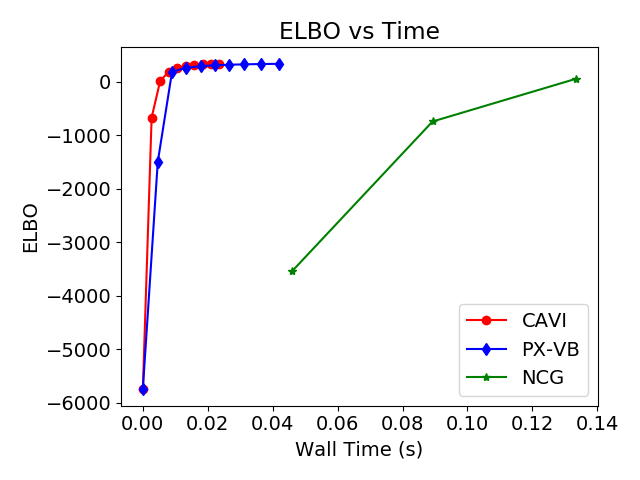
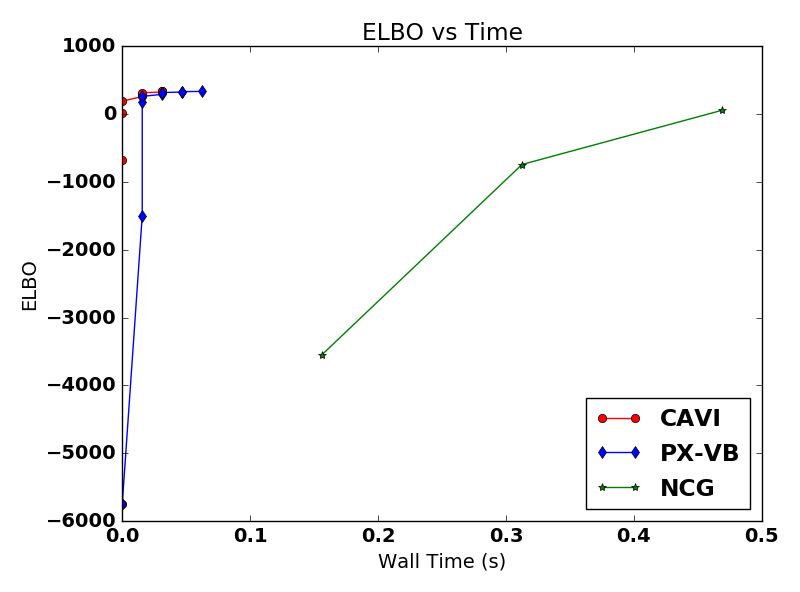
minor change to Probit (figures), worked on poster

diff --git a/poster/poster.tex b/poster/poster.tex
@@ -56,6 +56,9 @@
 %-----------------------------------------------------------
 
 \usepackage{graphicx}  % Required for including images
+\usepackage{booktabs} % Top and bottom rules for tables
+\usepackage{subcaption}
+\usepackage[font=normalsize,labelfont=bf]{caption}
 
 \usepackage{booktabs} % Top and bottom rules for tables
 
@@ -92,14 +95,13 @@
 %----------------------------------------------------------------------------------------
 
 \begin{alertblock}{Objectives}
-
-Lorem ipsum dolor sit amet, consectetur, nunc tellus pulvinar tortor, commodo eleifend risus arcu sed odio:
+Our aim is to evaluate the effectiveness of various optimization algorithms for approximate Bayesian inference. In particular, we were interested in examining:
 \begin{itemize}
-\item Mollis dignissim, magna augue tincidunt dolor, interdum vestibulum urna
-\item Sed aliquet luctus lectus, eget aliquet leo ullamcorper consequat. Vivamus eros sem, iaculis ut euismod non, sollicitudin vel orci.
-\item Nascetur ridiculus mus.  
-\item Euismod non erat. Nam ultricies pellentesque nunc, ultrices volutpat nisl ultrices a.
+\item {\bf coordinate ascent}, the standard method for variational inference;
+\item {\bf Newton conjugate trust region}, an accepted second-order optimization method; 
+\item and {\bf parameter expanded variational inference}, a data-augementation method described in Qi and Jaakkola 2006. 
 \end{itemize}
+
 
 \end{alertblock}
 
@@ -107,7 +109,7 @@ Lorem ipsum dolor sit amet, consectetur, nunc tellus pulvinar tortor, commodo el
 %	INTRODUCTION
 %----------------------------------------------------------------------------------------
 
-\begin{block}{Introduction}
+\begin{block}{Motivation}
 
 Lorem ipsum dolor \textbf{sit amet}, consectetur adipiscing elit. Sed commodo molestie porta. Sed ultrices scelerisque sapien ac commodo. Donec ut volutpat elit. Sed laoreet accumsan mattis. Integer sapien tellus, auctor ac blandit eget, sollicitudin vitae lorem. Praesent dictum tempor pulvinar. Suspendisse potenti. Sed tincidunt varius ipsum, et porta nulla suscipit et. Etiam congue bibendum felis, ac dictum augue cursus a. \textbf{Donec} magna eros, iaculis sit amet placerat quis, laoreet id est. In ut orci purus, interdum ornare nibh. Pellentesque pulvinar, nibh ac malesuada accumsan, urna nunc convallis tortor, ac vehicula nulla tellus eget nulla. Nullam lectus tortor, \textit{consequat tempor hendrerit} quis, vestibulum in diam. Maecenas sed diam augue.
 
@@ -130,143 +132,196 @@ This statement requires citation \cite{Smith:2012qr}.
 
 \begin{column}{\twocolwid} % Begin a column which is two columns wide (column 2)
 
-\begin{columns}[t,totalwidth=\twocolwid] % Split up the two columns wide column
+%\begin{columns}[t,totalwidth=\twocolwid] % Split up the two columns wide column
+%
+%\begin{column}{\onecolwid}\vspace{-.6in} % The first column within column 2 (column 2.1)
+%
+%%----------------------------------------------------------------------------------------
+%%	MATERIALS
+%%----------------------------------------------------------------------------------------
+%
+%\begin{block}{Materials}
+%
+%The following materials were required to complete the research:
+%
+%\begin{itemize}
+%\item El burrita
+%\item Eu facilisis est tempus quis
+%\item Duis porta consequat lorem
+%\item Eu facilisis est tempus quis
+%\end{itemize}
+%
+%The materials were prepared according to the steps outlined below:
+%
+%\begin{enumerate}
+%\item Curabitur pellentesque dignissim
+%\item Eu facilisis est tempus quis
+%\item Duis porta consequat lorem
+%\item Curabitur pellentesque dignissim
+%\end{enumerate}
+%
+%\end{block}
+%
+%%----------------------------------------------------------------------------------------
+%
+%\end{column} % End of column 2.1
+%
+%\begin{column}{\onecolwid}\vspace{-.6in} % The second column within column 2 (column 2.2)
+%
+%%----------------------------------------------------------------------------------------
+%%	METHODS
+%%----------------------------------------------------------------------------------------
+%
+%\begin{block}{Methods}
+%
+%Lorem ipsum dolor \textbf{sit amet}, consectetur adipiscing elit. Sed laoreet accumsan mattis. Integer sapien tellus, auctor ac blandit eget, sollicitudin vitae lorem. Praesent dictum tempor pulvinar. Suspendisse potenti. Sed tincidunt varius ipsum, et porta nulla suscipit et. Etiam congue bibendum felis, ac dictum augue cursus a. \textbf{Donec} magna eros, iaculis sit amet placerat quis, laoreet id est. In ut orci purus, interdum ornare nibh. Pellentesque pulvinar, nibh ac malesuada accumsan, urna nunc convallis tortor, ac vehicula nulla tellus eget nulla. Nullam lectus tortor, \textit{consequat tempor hendrerit} quis, vestibulum in diam. Maecenas sed diam augue.
+%
+%\end{block}
+%
+%%----------------------------------------------------------------------------------------
+%
+%\end{column} % End of column 2.2
 
-\begin{column}{\onecolwid}\vspace{-.6in} % The first column within column 2 (column 2.1)
+%\end{columns} % End of the split of column 2 - any content after this will now take up 2 columns width
 
-%----------------------------------------------------------------------------------------
-%	MATERIALS
-%----------------------------------------------------------------------------------------
 
-\begin{block}{Materials}
+%------------------------------------
+% PROBIT REGRESSION
+%------------------------------------
+\begin{block}{Probit regression}
+Let $t_n, n=1, ..., N$ be binary random variables. In probit regression our model is
+\begin{align*}
+p(t | X, w) = \prod_{n=1}^N \Phi(x_n^Tw)
+\end{align*}
+where $\Phi$ is the standard normal c.d.f function. The $x_n$'s are fixed, and we place a normal prior on $w$. To do inference on $w$, we take a variational approach, optimizing over variational parameters to maximize the evidence lower bound. The results of CAVI, Newton-CG, and PX-VB are displayed below.   
 
-The following materials were required to complete the research:
+\begin{figure}[h]
+  \centering
+    \begin{subfigure}[t]{0.4\textwidth}
+        \includegraphics[width=\textwidth]{Probit_synth/CAVI_PX_convergence.png}
+        
+    \end{subfigure}
+          \begin{subfigure}[t]{0.4\textwidth}
+        \includegraphics[width=\textwidth]{Probit_synth/elbo_time.png}
+    \end{subfigure}
+    \caption{Convergence results for synthetic data. Number of data points was  $N=500$, dimension of $w$ was $D=20$. }
+\end{figure}
 
-\begin{itemize}
-\item Curabitur pellentesque dignissim
-\item Eu facilisis est tempus quis
-\item Duis porta consequat lorem
-\item Eu facilisis est tempus quis
-\end{itemize}
+\begin{figure}[h]
+        \begin{subfigure}[t]{0.4\textwidth}
+        \includegraphics[width=\textwidth]{Probit_real/CAVI_PX_convergence.png}
+    \end{subfigure}
+          \begin{subfigure}[t]{0.4\textwidth}
+        \includegraphics[width=\textwidth]{Probit_real/elbo_time.png}
+    \end{subfigure}
+    \caption{Convergence results for conducting variational inference on SPAM data (Efron and Hastie 2016). $N= 4601$ emails were examined with the binary dependent variable taken to be whether or not the email was SPAM. $D=57$ keyword predictors were used (e.g. prevalence of the word `'MONEY'', `'FREE'', etc). }
+\end{figure}
 
-The materials were prepared according to the steps outlined below:
+    
+  
 
-\begin{enumerate}
-\item Curabitur pellentesque dignissim
-\item Eu facilisis est tempus quis
-\item Duis porta consequat lorem
-\item Curabitur pellentesque dignissim
-\end{enumerate}
+
+
+
+
 
 \end{block}
 
-%----------------------------------------------------------------------------------------
 
-\end{column} % End of column 2.1
+%------------------------------------
+% Linear mixed effects model
+%------------------------------------
+\begin{block}{Linear mixed effects model}
 
-\begin{column}{\onecolwid}\vspace{-.6in} % The second column within column 2 (column 2.2)
 
-%----------------------------------------------------------------------------------------
-%	METHODS
-%----------------------------------------------------------------------------------------
-
-\begin{block}{Methods}
-
-Lorem ipsum dolor \textbf{sit amet}, consectetur adipiscing elit. Sed laoreet accumsan mattis. Integer sapien tellus, auctor ac blandit eget, sollicitudin vitae lorem. Praesent dictum tempor pulvinar. Suspendisse potenti. Sed tincidunt varius ipsum, et porta nulla suscipit et. Etiam congue bibendum felis, ac dictum augue cursus a. \textbf{Donec} magna eros, iaculis sit amet placerat quis, laoreet id est. In ut orci purus, interdum ornare nibh. Pellentesque pulvinar, nibh ac malesuada accumsan, urna nunc convallis tortor, ac vehicula nulla tellus eget nulla. Nullam lectus tortor, \textit{consequat tempor hendrerit} quis, vestibulum in diam. Maecenas sed diam augue.
 
 \end{block}
-
-%----------------------------------------------------------------------------------------
-
-\end{column} % End of column 2.2
-
-\end{columns} % End of the split of column 2 - any content after this will now take up 2 columns width
 
 
 %----------------------------------------------------------------------------------------
 %	IMPORTANT RESULT
-%----------------------------------------------------------------------------------------
-
+%%----------------------------------------------------------------------------------------
+%
 %\begin{alertblock}{Important Result}
-
+%
 %Lorem ipsum dolor \textbf{sit amet}, consectetur adipiscing elit. Sed commodo molestie porta. Sed ultrices scelerisque sapien ac commodo. Donec ut volutpat elit.
-
+%
 %\end{alertblock} 
 
 %----------------------------------------------------------------------------------------
 
-\begin{columns}[t,totalwidth=\twocolwid] % Split up the two columns wide column again
-
-\begin{column}{\onecolwid} % The first column within column 2 (column 2.1)
-
-%----------------------------------------------------------------------------------------
-%	MATHEMATICAL SECTION
-%----------------------------------------------------------------------------------------
-
-\begin{block}{Mathematical Section}
-
-Nam quis odio enim, in molestie libero. Vivamus cursus mi at nulla elementum sollicitudin. Nam quis odio enim, in molestie libero. Vivamus cursus mi at nulla elementum sollicitudin.
-  
-\begin{equation}
-E = mc^{2}
-\label{eqn:Einstein}
-\end{equation}
-
-Nam quis odio enim, in molestie libero. Vivamus cursus mi at nulla elementum sollicitudin. Nam quis odio enim, in molestie libero. Vivamus cursus mi at nulla elementum sollicitudin.
-
-\begin{equation}
-\cos^3 \theta =\frac{1}{4}\cos\theta+\frac{3}{4}\cos 3\theta
-\label{eq:refname}
-\end{equation}
-
-Nam quis odio enim, in molestie libero. Vivamus cursus mi at nulla elementum sollicitudin. Nam quis odio enim, in molestie libero. Vivamus cursus mi at nulla elementum sollicitudin.
-
-\begin{equation}
-\kappa =\frac{\xi}{E_{\mathrm{max}}} %\mathbb{ZNR}
-\end{equation}
-
-\end{block}
-
-%----------------------------------------------------------------------------------------
-
-\end{column} % End of column 2.1
-
-\begin{column}{\onecolwid} % The second column within column 2 (column 2.2)
-
-%----------------------------------------------------------------------------------------
-%	RESULTS
-%----------------------------------------------------------------------------------------
-
-\begin{block}{Results}
-
-\begin{figure}
-\includegraphics[width=0.8\linewidth]{placeholder.jpg}
-\caption{Figure caption}
-\end{figure}
-
-Nunc tempus venenatis facilisis. Curabitur suscipit consequat eros non porttitor. Sed a massa dolor, id ornare enim:
-
-\begin{table}
-\vspace{2ex}
-\begin{tabular}{l l l}
-\toprule
-\textbf{Treatments} & \textbf{Response 1} & \textbf{Response 2}\\
-\midrule
-Treatment 1 & 0.0003262 & 0.562 \\
-Treatment 2 & 0.0015681 & 0.910 \\
-Treatment 3 & 0.0009271 & 0.296 \\
-\bottomrule
-\end{tabular}
-\caption{Table caption}
-\end{table}
-
-\end{block}
-
-%----------------------------------------------------------------------------------------
-
-\end{column} % End of column 2.2
-
-\end{columns} % End of the split of column 2
+%\begin{columns}[t,totalwidth=\twocolwid] % Split up the two columns wide column again
+%
+%\begin{column}{\onecolwid} % The first column within column 2 (column 2.1)
+%
+%%----------------------------------------------------------------------------------------
+%%	MATHEMATICAL SECTION
+%%----------------------------------------------------------------------------------------
+%
+%\begin{block}{Mathematical Section}
+%
+%Nam quis odio enim, in molestie libero. Vivamus cursus mi at nulla elementum sollicitudin. Nam quis odio enim, in molestie libero. Vivamus cursus mi at nulla elementum sollicitudin.
+%  
+%\begin{equation}
+%E = mc^{2}
+%\label{eqn:Einstein}
+%\end{equation}
+%
+%Nam quis odio enim, in molestie libero. Vivamus cursus mi at nulla elementum sollicitudin. Nam quis odio enim, in molestie libero. Vivamus cursus mi at nulla elementum sollicitudin.
+%
+%\begin{equation}
+%\cos^3 \theta =\frac{1}{4}\cos\theta+\frac{3}{4}\cos 3\theta
+%\label{eq:refname}
+%\end{equation}
+%
+%Nam quis odio enim, in molestie libero. Vivamus cursus mi at nulla elementum sollicitudin. Nam quis odio enim, in molestie libero. Vivamus cursus mi at nulla elementum sollicitudin.
+%
+%\begin{equation}
+%\kappa =\frac{\xi}{E_{\mathrm{max}}} %\mathbb{ZNR}
+%\end{equation}
+%
+%\end{block}
+%
+%%----------------------------------------------------------------------------------------
+%
+%\end{column} % End of column 2.1
+%
+%\begin{column}{\onecolwid} % The second column within column 2 (column 2.2)
+%
+%%----------------------------------------------------------------------------------------
+%%	RESULTS
+%%----------------------------------------------------------------------------------------
+%
+%\begin{block}{Results}
+%
+%\begin{figure}
+%\includegraphics[width=0.8\linewidth]{placeholder.jpg}
+%\caption{Figure caption}
+%\end{figure}
+%
+%Nunc tempus venenatis facilisis. Curabitur suscipit consequat eros non porttitor. Sed a massa dolor, id ornare enim:
+%
+%\begin{table}
+%\vspace{2ex}
+%\begin{tabular}{l l l}
+%\toprule
+%\textbf{Treatments} & \textbf{Response 1} & \textbf{Response 2}\\
+%\midrule
+%Treatment 1 & 0.0003262 & 0.562 \\
+%Treatment 2 & 0.0015681 & 0.910 \\
+%Treatment 3 & 0.0009271 & 0.296 \\
+%\bottomrule
+%\end{tabular}
+%\caption{Table caption}
+%\end{table}
+%
+%\end{block}
+%
+%%----------------------------------------------------------------------------------------
+%
+%\end{column} % End of column 2.2
+%
+%\end{columns} % End of the split of column 2
 
 \end{column} % End of the second column
 

diff --git a/Code/Probit.py b/Code/Probit.py
@@ -42,7 +42,6 @@ w = np.random.multivariate_normal(np.zeros(D), np.identity(D))
 z = np.random.multivariate_normal(np.dot(w,X), np.identity(N))
 t = np.sign(z)
 
-
 # NEWTON method
 w_mean = deepcopy(my_init_w) #np.random.multivariate_normal(np.zeros(D), np.identity(D) )
 w_var  = np.linalg.inv(np.dot(X,X.T) + (1/v_0) * np.identity(D))
@@ -81,7 +80,7 @@ iterations = 100
 CAVI_error2newt = []
 delta_cavi = [1.]#np.zeros((iterations,1))
 d_cavi = []
-while i<1000: # delta_cavi[-1] > 1e-2 or
+while delta_cavi[-1] > 1e-13: 
 #for i in range(iterations):
     w_mean_prev = deepcopy(w_mean)
     d_cavi.append(np.linalg.norm(w - w_mean))
@@ -122,7 +121,7 @@ PX_error2newt = []
 delta_pxvb = [1.]
 d_pxvb = []
 i = 1
-while delta_pxvb[-1] > 1e-2 or i<1000:
+while delta_pxvb[-1] > 1e-13: 
     w_mean_prev = deepcopy(w_mean_p)
     
     # PX-VB updates
@@ -162,11 +161,11 @@ plt.savefig('../poster/Probit_synth/elbo_iter.png')
 
 plt.figure(2)
 plt.clf()
-plt.semilogy(delta_cavi,'r')
-plt.semilogy(delta_pxvb,'b') 
+plt.semilogy(times_cavi, delta_cavi,'r')
+plt.semilogy(times_pxvb, delta_pxvb,'b') 
 #plt.semilogy(delta_newt,'g')
-plt.legend(['CAVI','PX-VB','NCG'])
-plt.xlabel('Iteration Number')
+plt.legend(['CAVI','PX-VB'])
+plt.xlabel('Wall Time (s)')
 plt.ylabel('$||w^{t+1} - w^t||_2$')
 plt.title('Difference Between Consecutive Estimates')
 plt.tight_layout()
